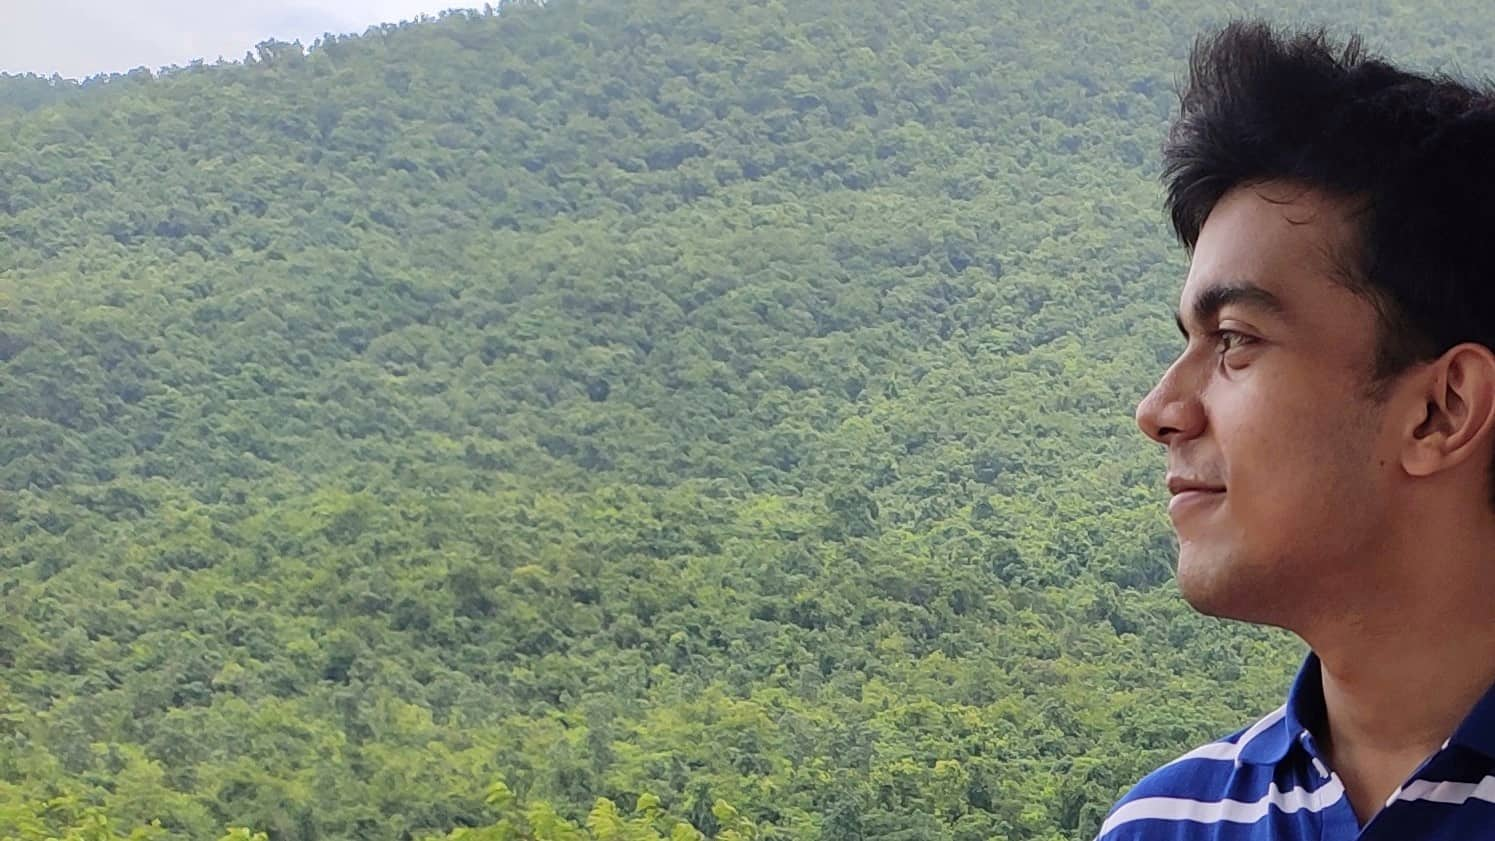
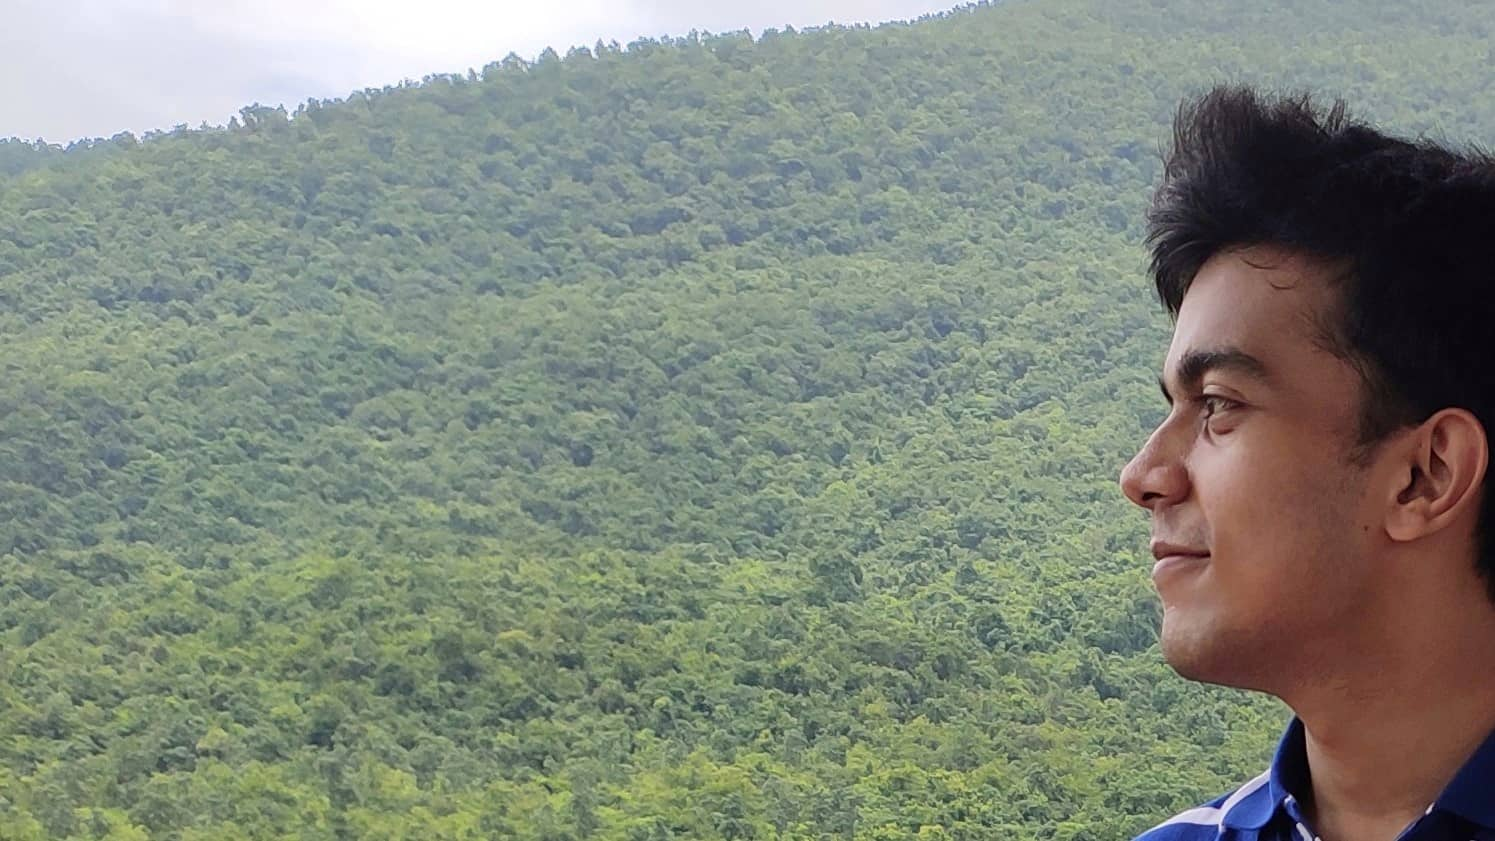
Add files via upload

diff --git a/index.html b/index.html
@@ -7,7 +7,7 @@
 
     <link rel="stylesheet" href="https://stackpath.bootstrapcdn.com/bootstrap/4.5.2/css/bootstrap.min.css" integrity="sha384-JcKb8q3iqJ61gNV9KGb8thSsNjpSL0n8PARn9HuZOnIxN0hoP+VmmDGMN5t9UJ0Z" crossorigin="anonymous">
     <link href="https://fonts.googleapis.com/css2?family=Poppins&display=swap" rel="stylesheet">
-    <link href="https://fonts.googleapis.com/css2?family=Comfortaa&family=Poppins&display=swap" rel="stylesheet">
+    <link href="https://fonts.googleapis.com/css2?family=Megrim&display=swap" rel="stylesheet">
     <link rel="stylesheet" href="style.css">
   </head>
   <body>
@@ -46,10 +46,10 @@
 
 <section class="header">
     <div class="header-center-part">
-      <p class="pb-2">Hi, I am</p>
-      <p class="font1">Sattam</p>
-      <p class=" pb-3 font1 bottom-border">Bandyopadhyay</p>
-      <p class="pt-2 h5">Jadavpur University (2019-2023)</p>
+      <p class="">Hi, I am</p>
+      <p class="name">Sattam</p>
+      <p class=" pb-3 bottom-border name">Bandyopadhyay</p>
+      <p class="pt-2 h5">Jadavpur University (2019-23)</p>
       <p class=""> Department of Information Technology</p>
     </div>
 </section>

diff --git a/style.css b/style.css
@@ -39,10 +39,10 @@ li{list-style: none;}
   height: 98vh;
   background-image: linear-gradient(120deg, black 10%,
   rgba(11, 41, 14, 0.9) 25%, rgba(0, 0, 0, 0.5) 60%,
-  transparent 20%), url(me.jpg);
+  transparent 20%), url(me.jpeg);
   background-size: cover;
   background-repeat: no-repeat;
-  background-position: 83% 3%;
+  background-position: 83% 30%;
   /* clip-path: polygon(30% 0%, 100% 0%, 100% 100%, 0% 100%); */
   color: white;
   box-shadow: -10px 0 5px white;
@@ -51,7 +51,7 @@ li{list-style: none;}
   width: 55%;
   height: auto;
   top: 25%;
-  left: 5%;
+  left: 4%;
   padding: 0 0 0 4%;
   position: absolute;
   text-align: center;
@@ -59,7 +59,7 @@ li{list-style: none;}
   flex-direction: column;
 }
 .header-center-part p{
-  text-transform: uppercase;
+  text-transform: ;
 }
 .bottom-border{
   border-width: 0 0 3px 0;
@@ -67,9 +67,9 @@ li{list-style: none;}
   border-style: double;
 }
 .name{
-  font-family: 'Comfortaa', cursive;
-  font-size: 4em;
-  text-transform: uppercase;
+  font-family: 'Megrim', cursive;
+  font-size: calc(25px + 2.6vw);
+
 }
 .t1{
   padding: 20px;
